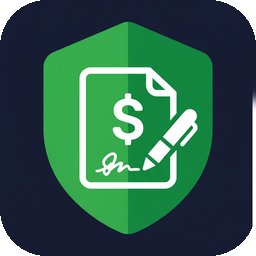
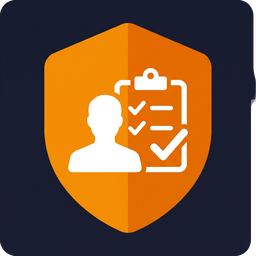
chore: promin_rrhh_encuestas — nombre «Evaluaciones PROMIN» e ícono nuevo
Claude-Session: https://claude.ai/code/session_01QXbosKX7isUbCDzq4VdiZM

diff --git a/promin_rrhh_encuestas/__manifest__.py b/promin_rrhh_encuestas/__manifest__.py
@@ -1,5 +1,5 @@
 {
-    'name': 'PROMIN - Encuestas de RRHH (clima laboral y evaluación de desempeño)',
+    'name': 'Evaluaciones PROMIN',
     'version': '19.0.1.0.0',
     'summary': 'Encuesta de clima laboral y evaluación de desempeño (jefe a subordinado) sobre Encuestas, con resultados por área, evaluado y competencia',
     'author': 'Nuage Peru SAC',

diff --git a/promin_rrhh_encuestas/README.md b/promin_rrhh_encuestas/README.md
@@ -5,10 +5,10 @@ Encuestas de RRHH de PROMIN sobre el módulo estándar **Encuestas** (`survey`):
 ## Clima laboral
 - Encuesta pública (enlace compartible) **anónima**: datos demográficos (área, puesto, sexo, edad, estudios, antigüedad), 13 afirmaciones en escala 1-5 y un comentario opcional.
 - Las opciones de **Área** salen de los departamentos de RRHH (Encuestas > acción «Sincronizar áreas con departamentos»).
-- Resultados: **Evaluaciones RRHH > Clima laboral > Resultados** (tabla dinámica y gráfico por pregunta, agrupables por área, puesto, sexo, edad, estudios y antigüedad).
+- Resultados: **Evaluaciones PROMIN > Clima laboral > Resultados** (tabla dinámica y gráfico por pregunta, agrupables por área, puesto, sexo, edad, estudios y antigüedad).
 
 ## Evaluación de desempeño (jefe a subordinado)
-- **Evaluaciones RRHH > Desempeño > Generar evaluaciones**: crea una evaluación por empleado dirigida a su jefe (campo *Responsable* del empleado), rellena evaluado/jefe/área y envía el enlace por correo al jefe. No duplica evaluaciones ya generadas.
+- **Evaluaciones PROMIN > Desempeño > Generar evaluaciones**: crea una evaluación por empleado dirigida a su jefe (campo *Responsable* del empleado), rellena evaluado/jefe/área y envía el enlace por correo al jefe. No duplica evaluaciones ya generadas.
 - Contenido: valores (4), competencias generales (10), competencias específicas (2, solo si el evaluado es jefe), fortaleza y área de mejora.
 - Resultados: **Desempeño > Resultados** (promedios de valores, competencias y total por empleado y por área; filtros de pendientes/completadas).
 - Desde la lista se puede reenviar el enlace al jefe (acción «Enviar enlace de evaluación al jefe»).
